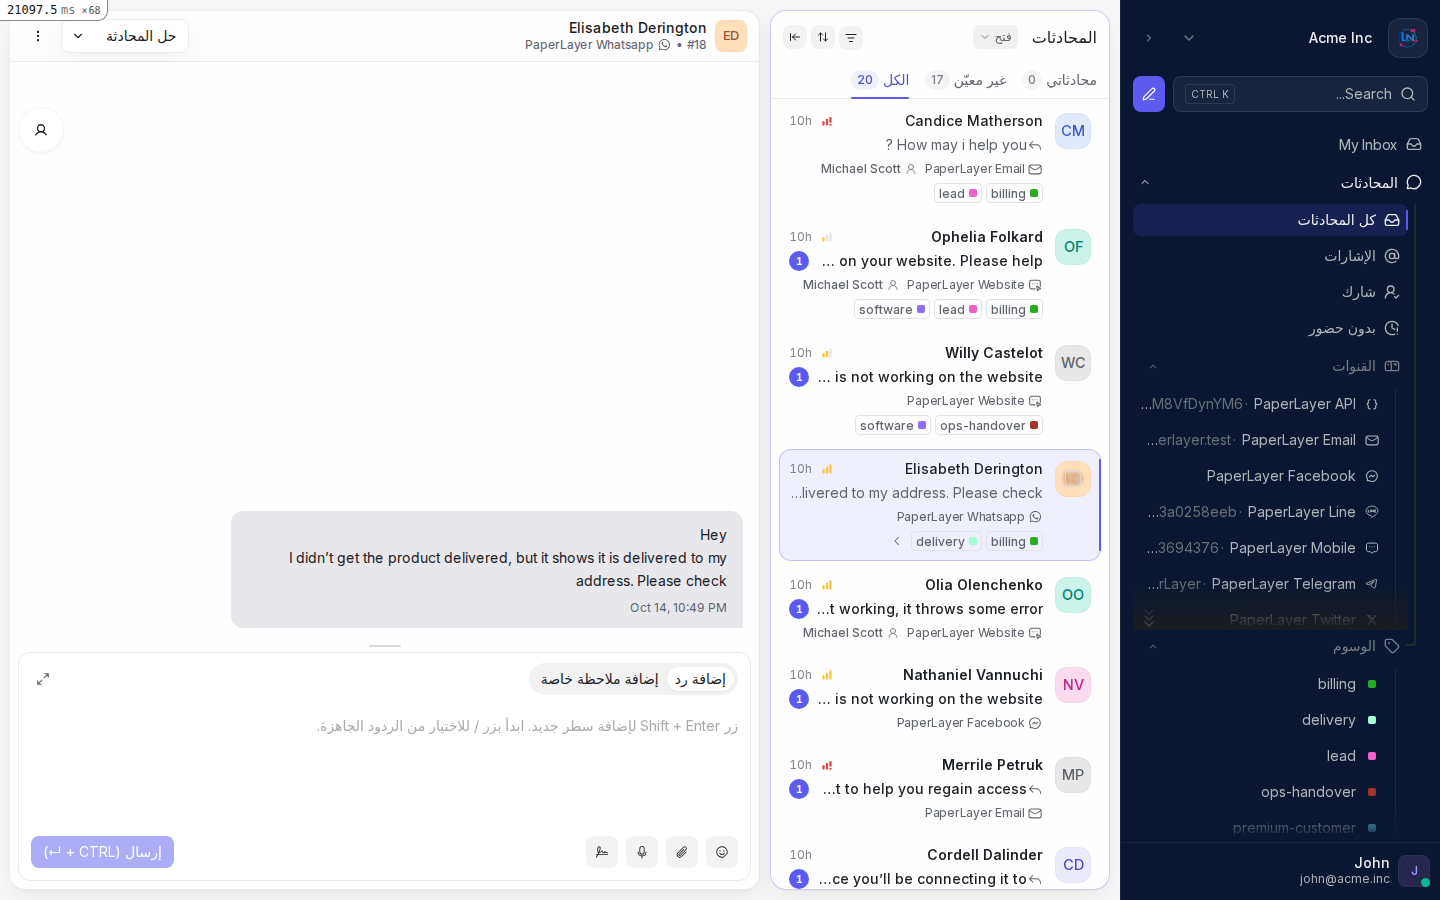
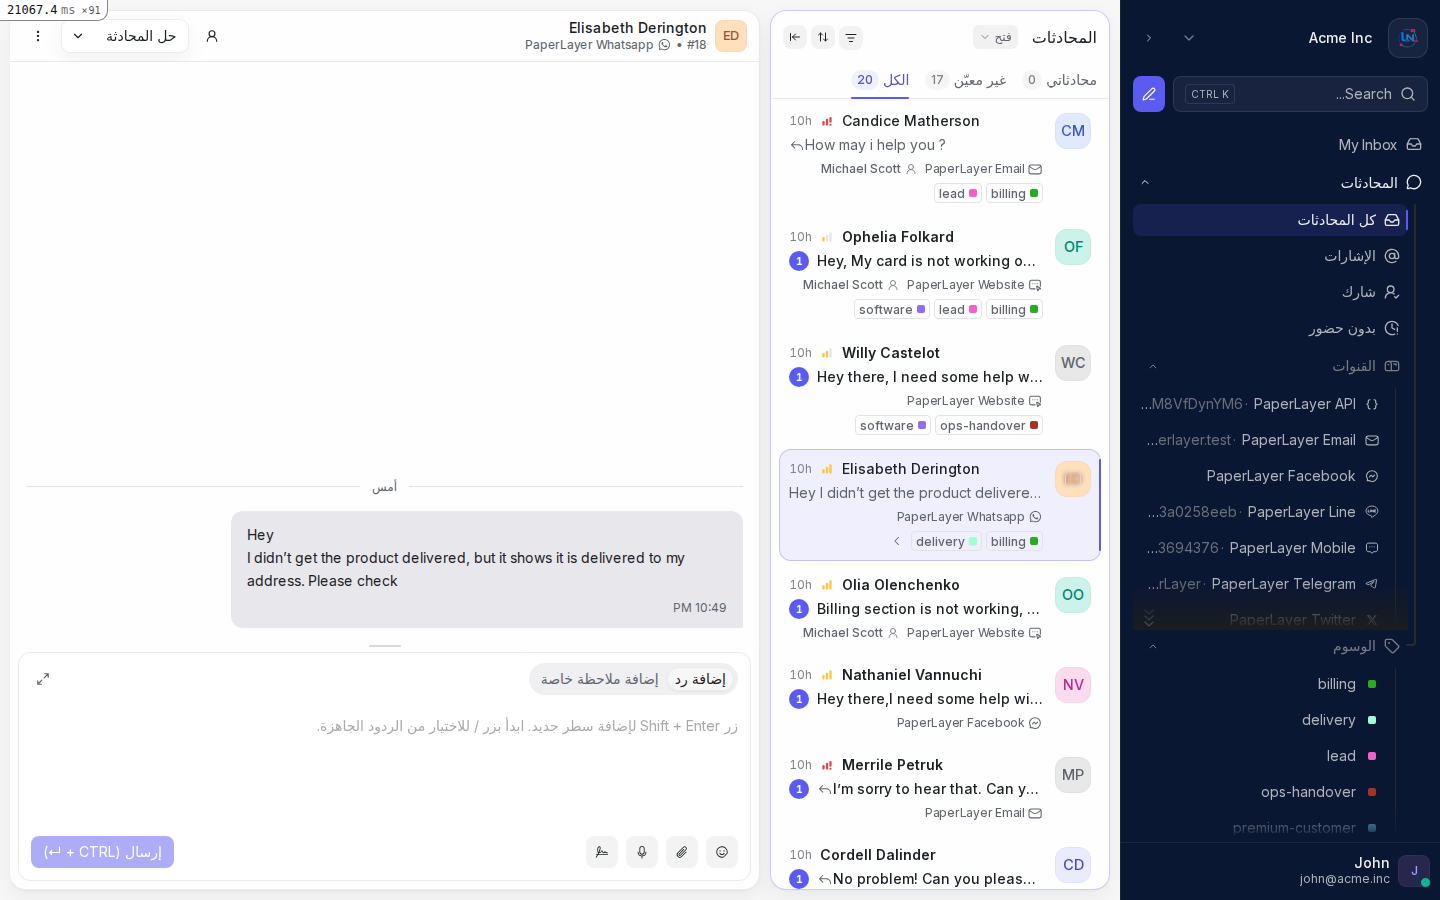
fix(dashboard): three defects an adversarial review of the day marker found
A read-only audit of the timeline, with each finding handed to a separate agent
told to refute it, caught three things. All three were verified against the
source before acting; all three add or de-duplicate information rather than
removing any.

**The day marker spoke English inside the Arabic product.** I added
`DATE_SEPARATOR.TODAY/YESTERDAY` to `en/conversation.json` only, reading the
project rule that source-string changes touch English and Crowdin handles the
rest. That reading was right for the strings I *reworded* -- their Arabic
siblings already existed and stayed correct -- and wrong for a *new* key, which
has no sibling to fall back to. The one element whose entire job is orienting the
reader in time rendered "Yesterday" in Latin script on an otherwise Arabic
screen. The Arabic keys are added, matching this fork's established practice of
maintaining `ar` in-repo. It now reads "أمس".

**Every message still stamped the full date.** With a day marker above each day's
run, `LLL d, h:mm a` spent seven characters repeating what the rule overhead had
just said, and crowded the one part of the meta line that changes per message.
It is `h:mm a` now. Nothing is lost: `messageTimestamp` still escalates to a full
`LLL d y, h:mm a` for a message from another year (timeHelper.js:33-35, checked),
and the complete date and time stay in the existing hover tooltip.

**The timeline was a `<ul>` full of `<div>`s.** `Message.vue`'s root was a `div`
[…]

diff --git a/app/javascript/dashboard/components-next/message/MessageMeta.vue b/app/javascript/dashboard/components-next/message/MessageMeta.vue
@@ -35,8 +35,12 @@ const {
   contentAttributes,
 } = useMessageContext();
 
+// The day is stated once, on the separator above each day's run of messages, so repeating it on every
+// stamp spent seven characters to say what the rule overhead already said -- and crowded the one part of
+// this line that does change per message. `messageTimestamp` still escalates to a full 'LLL d y, h:mm a'
+// for a message from another year, and the exact date and time stay in the hover tooltip below.
 const readableTime = computed(() =>
-  messageTimestamp(createdAt.value, 'LLL d, h:mm a')
+  messageTimestamp(createdAt.value, 'h:mm a')
 );
 
 const exactTime = computed(() => exactTimestamp(createdAt.value));

diff --git a/app/javascript/dashboard/components-next/message/Message.vue b/app/javascript/dashboard/components-next/message/Message.vue
@@ -559,10 +559,10 @@ provideMessageContext({
 
 <!-- eslint-disable-next-line vue/no-root-v-if -->
 <template>
-  <div
+  <li
     v-if="shouldRenderMessage"
     :id="`message${props.id}`"
-    class="flex w-full mb-2 message-bubble-container"
+    class="flex w-full mb-2 list-none message-bubble-container"
     :data-message-id="props.id"
     :class="[
       flexOrientationClass,
@@ -633,7 +633,7 @@ provideMessageContext({
         @reply-to="handleReplyTo"
       />
     </div>
-  </div>
+  </li>
 </template>
 
 <style lang="scss">
